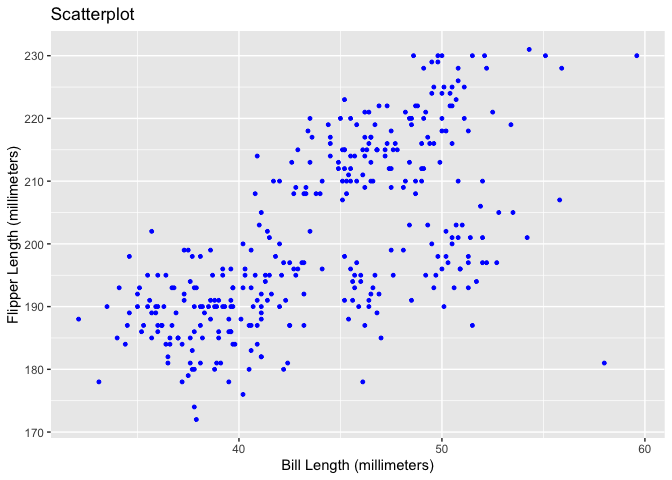
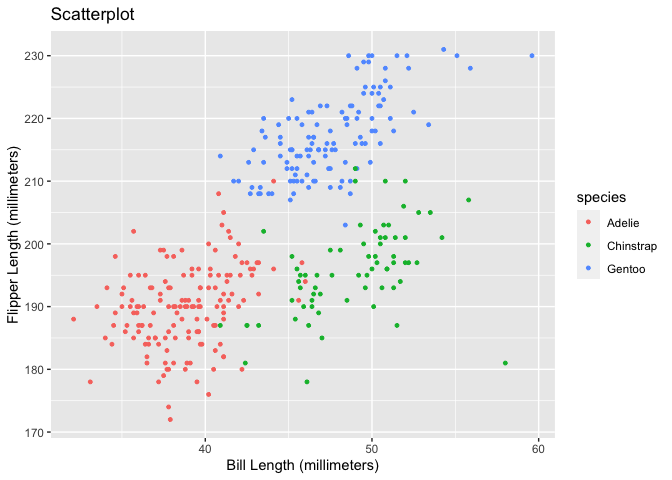
color the point by its species. reproduce the github file and png

diff --git a/p8105_hw1_cw3370.md b/p8105_hw1_cw3370.md
@@ -29,7 +29,7 @@ doesn’t work for the character variable and factor variable.
 ``` r
 ## Take the mean of each variable in df1. var=1 is numeric, var=2 is logical, var=3 is character, var=4 is factor##
 mean(pull(df1,var = 1))
-## [1] 0.1195337
+## [1] 0.002183112
 mean(pull(df1,var = 2))
 ## [1] 0.4
 mean(pull(df1,var = 3))
@@ -74,8 +74,8 @@ length is 200.9152047.
 
 ``` r
 ## Make a scatterplot by ggplot2. Set the color of point to blue and size of point to 1. Name the titile, x axis and y axis. ##
-ggplot(data = penguins, aes(x=bill_length_mm,y=flipper_length_mm)) + 
-    geom_point(color="blue",size=1) +
+ggplot(data = penguins, aes(x=bill_length_mm,y=flipper_length_mm,color=species)) + 
+    geom_point(size=1) +
     labs(title ="Scatterplot" , x = "Bill Length (millimeters)" , y = "Flipper Length (millimeters)")
 ```
 
